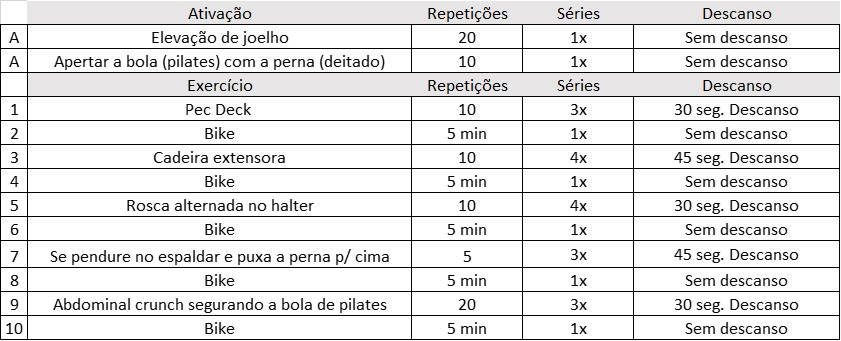
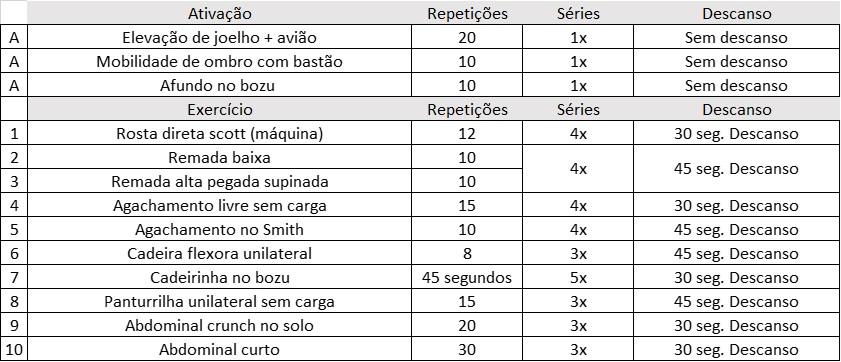
caio

diff --git a/docs/atletas/3079.html b/docs/atletas/3079.html
@@ -46,13 +46,35 @@
         </section>
             
         <section class="materias">
-            <header class="depoimento_conteudo bloco_cabecalho_degrade">Treinos</a></header>
+            <header class="depoimento_conteudo bloco_cabecalho_degrade">Treinos Bumbum na nuca</a></header>
             <div class="segundapagina espaco">   
                
                 <img class="shoot" src="../galeria/caioa.jpg">
-                <p>Fazer o treino com calma, a primeira semana é adaptação e testes para entendermos o 
-                    limite proposto ao corpo. Portanto faça todos os exercícios  com máxima segurança possível.
+                <p>Fazer o treino com calma, o primeiro treino da semana é focado nos agachamentos. Autorizado a progredir carga desde que 
+                    vá com calma. Faça todos os exercícios  com máxima segurança possível.
                     Lembrando que: qualquer dúvida, entrar em contato comigo e não fazer de forma displicente. 
+            </p>
+            
+            </div>
+        </section>
+        <section class="materias">
+            <header class="depoimento_conteudo bloco_cabecalho_degrade">Treino Joelho de ferro</a></header>
+            <div class="segundapagina espaco">   
+               
+                <img class="shoot" src="../galeria/caiob.jpg">
+                <p>Neste treino trabalharemos alguns auxiliares importantes do joelho. Portanto faça todos os exercícios  com máxima segurança possível.
+                    Lembrando que: qualquer dúvida, entrar em contato comigo e não fazer de forma displicente. 
+            </p>
+            
+            </div>
+        </section>
+        <section class="materias">
+            <header class="depoimento_conteudo bloco_cabecalho_degrade">Treino Abdome Trincado</a></header>
+            <div class="segundapagina espaco">   
+               
+                <img class="shoot" src="../galeria/caioc.jpg">
+                <p>Esse treino é o descanso da semana, sem muito foco no joelho, será o respiro depois de 2 dias de exercícios para o joelho.
+                    De preferência fazê-lo na quarta-feira. Aos sábados e domingos, apenas a bicicleta. 
             </p>
             
             </div>
